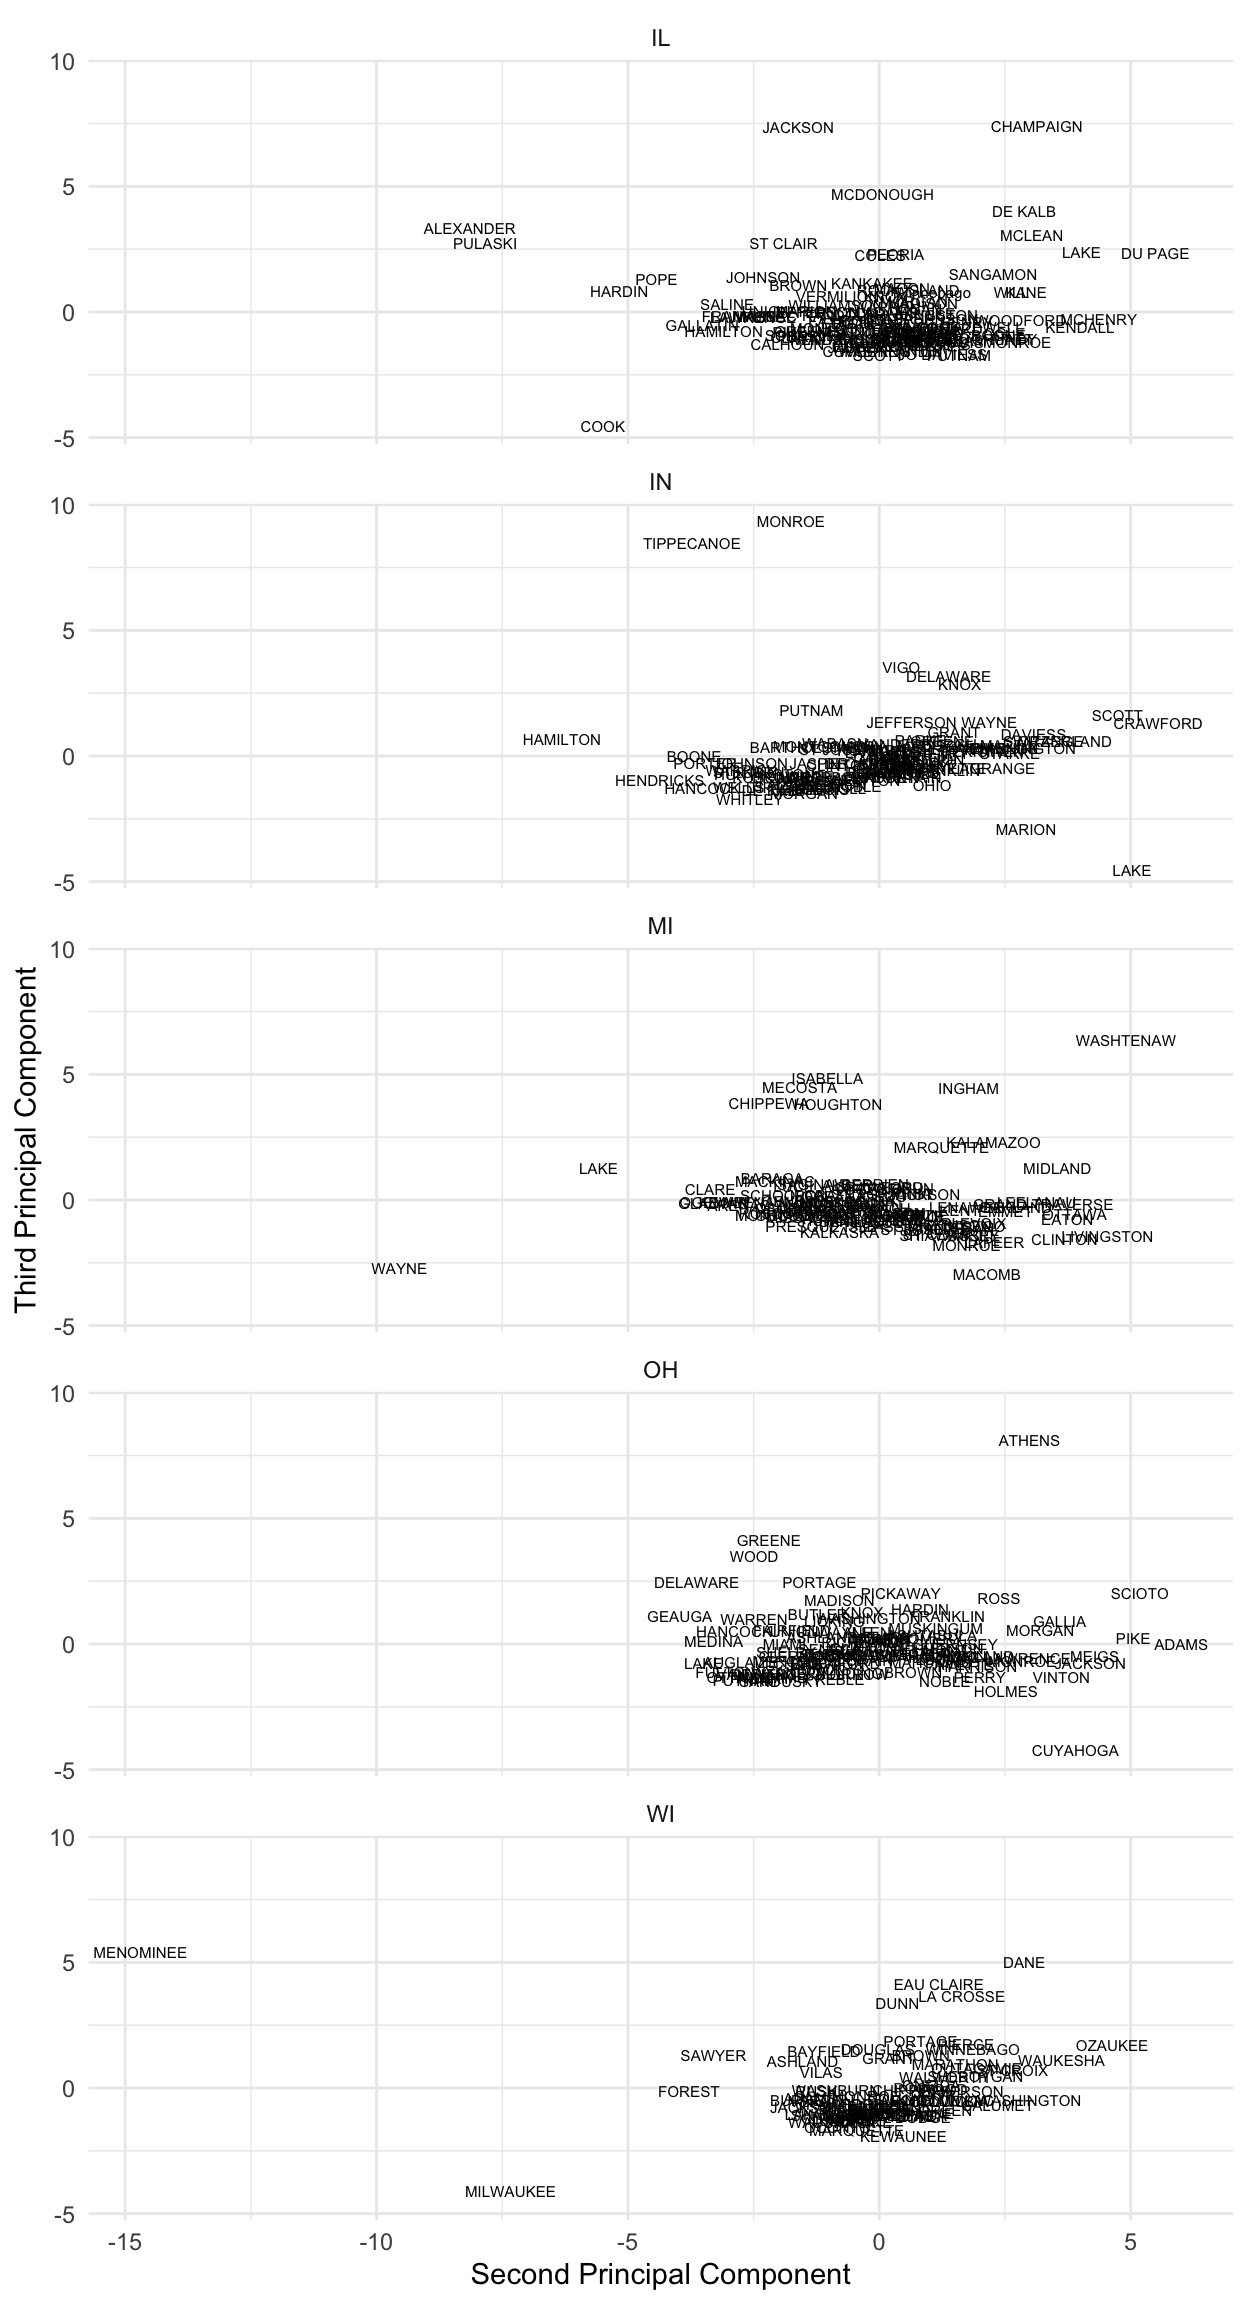
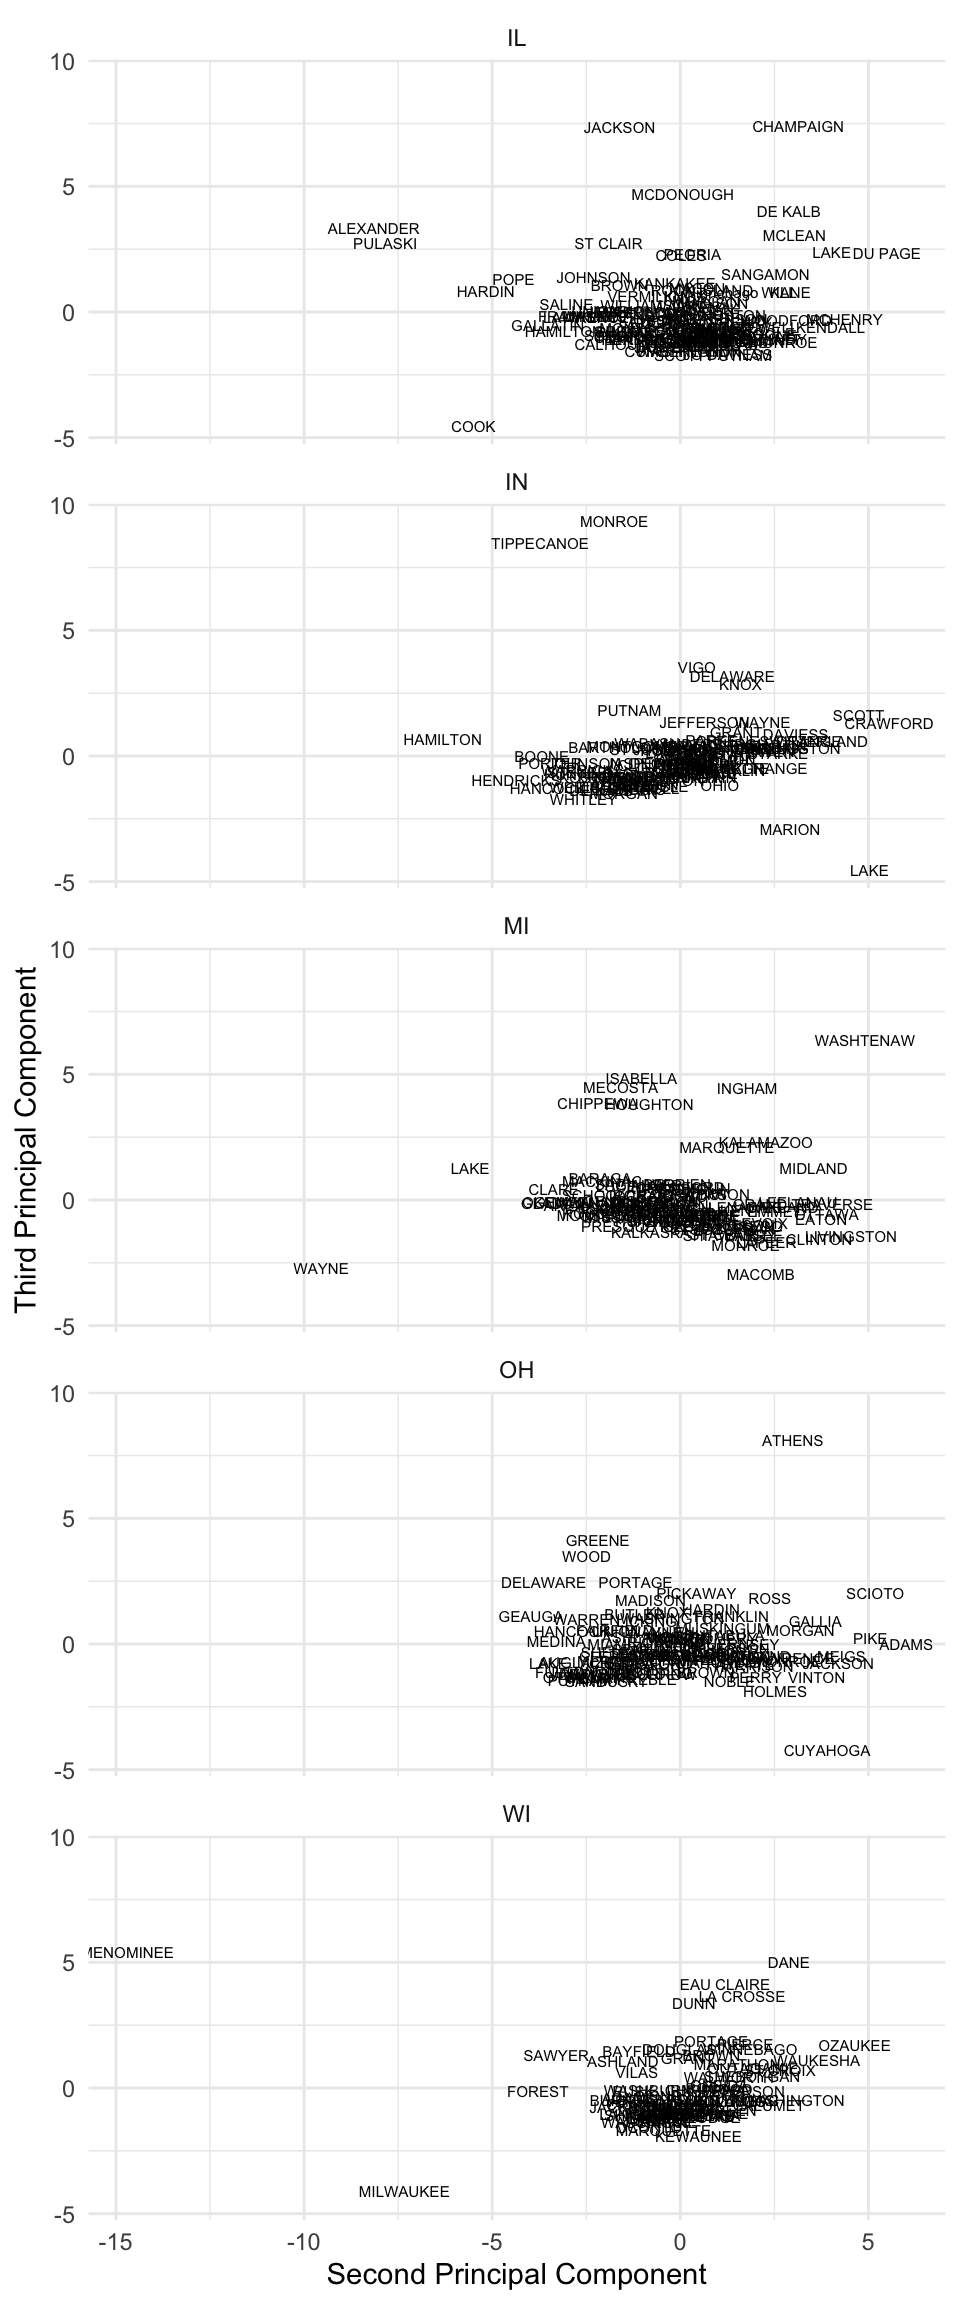
fix

diff --git a/docs/exercise_03.html b/docs/exercise_03.html
@@ -1127,7 +1127,7 @@ midwest %&gt;%
     labs(x = &quot;Second Principal Component&quot;, 
          y = &quot;Third Principal Component&quot;) +
     theme_minimal() + facet_wrap(~ state, ncol = 1)</code></pre>
-<p><img src="exercise_03_files/figure-html5/oneshot-1.png" width="624" /></p>
+<p><img src="exercise_03_files/figure-html5/oneshot-1.png" width="480" /></p>
 </div>
 <h2 id="knit-the-document-as-an-html-pdf">4 Knit the document as an HTML, PDF</h2>
 <ul>
